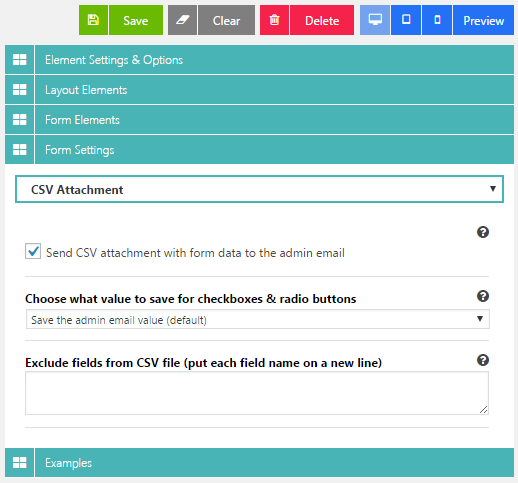
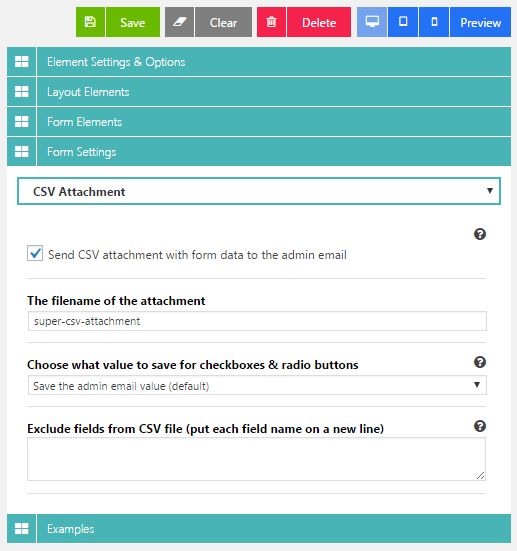
load default settings issue

diff --git a/super-forms-csv-attachment.php b/super-forms-csv-attachment.php
@@ -327,7 +327,7 @@ if(!class_exists('SUPER_CSV_Attachment')) :
                     ),
                     'csv_attachment_name' => array(
                         'name'=> __( 'The filename of the attachment', 'super-forms' ),
-                        'default'=> ( !isset( $attributes['csv_attachment_name']) ? 'super-csv-attachment' : $attributes['csv_attachment_name']),
+                        'default'=> SUPER_Settings::get_value( 0, 'csv_attachment_name', $settings['settings'], 'super-csv-attachment' ),
                         'filter'=>true,
                         'parent'=>'csv_attachment_enable',
                         'filter_value'=>'true'
@@ -335,7 +335,7 @@ if(!class_exists('SUPER_CSV_Attachment')) :
                     'csv_attachment_save_as' => array(
                         'name'=> __( 'Choose what value to save for checkboxes & radio buttons', 'super-forms' ),
                         'desc'=> __( 'When editing a field you can change these settings', 'super-forms' ),
-                        'default'=> ( !isset( $attributes['csv_attachment_save_as']) ? 'admin_email_value' : $attributes['csv_attachment_save_as']),
+                        'default'=> SUPER_Settings::get_value( 0, 'csv_attachment_save_as', $settings['settings'], 'admin_email_value' ),
                         'type'=>'select', 
                         'values'=>array(
                             'admin_email_value' => __( 'Save the admin email value (default)', 'super-forms' ),
@@ -349,7 +349,7 @@ if(!class_exists('SUPER_CSV_Attachment')) :
                     'csv_attachment_exclude' => array(
                         'name'=> __( 'Exclude fields from CSV file (put each field name on a new line)', 'super-forms' ),
                         'desc'=> __( 'When saving the CSV these fields will be excluded from the CSV file', 'super-forms' ),
-                        'default'=> ( !isset( $attributes['csv_attachment_exclude']) ? '' : $attributes['csv_attachment_exclude']),
+                        'default'=> SUPER_Settings::get_value( 0, 'csv_attachment_exclude', $settings['settings'], '' ),
                         'type'=>'textarea', 
                         'filter'=>true,
                         'parent'=>'csv_attachment_enable',
